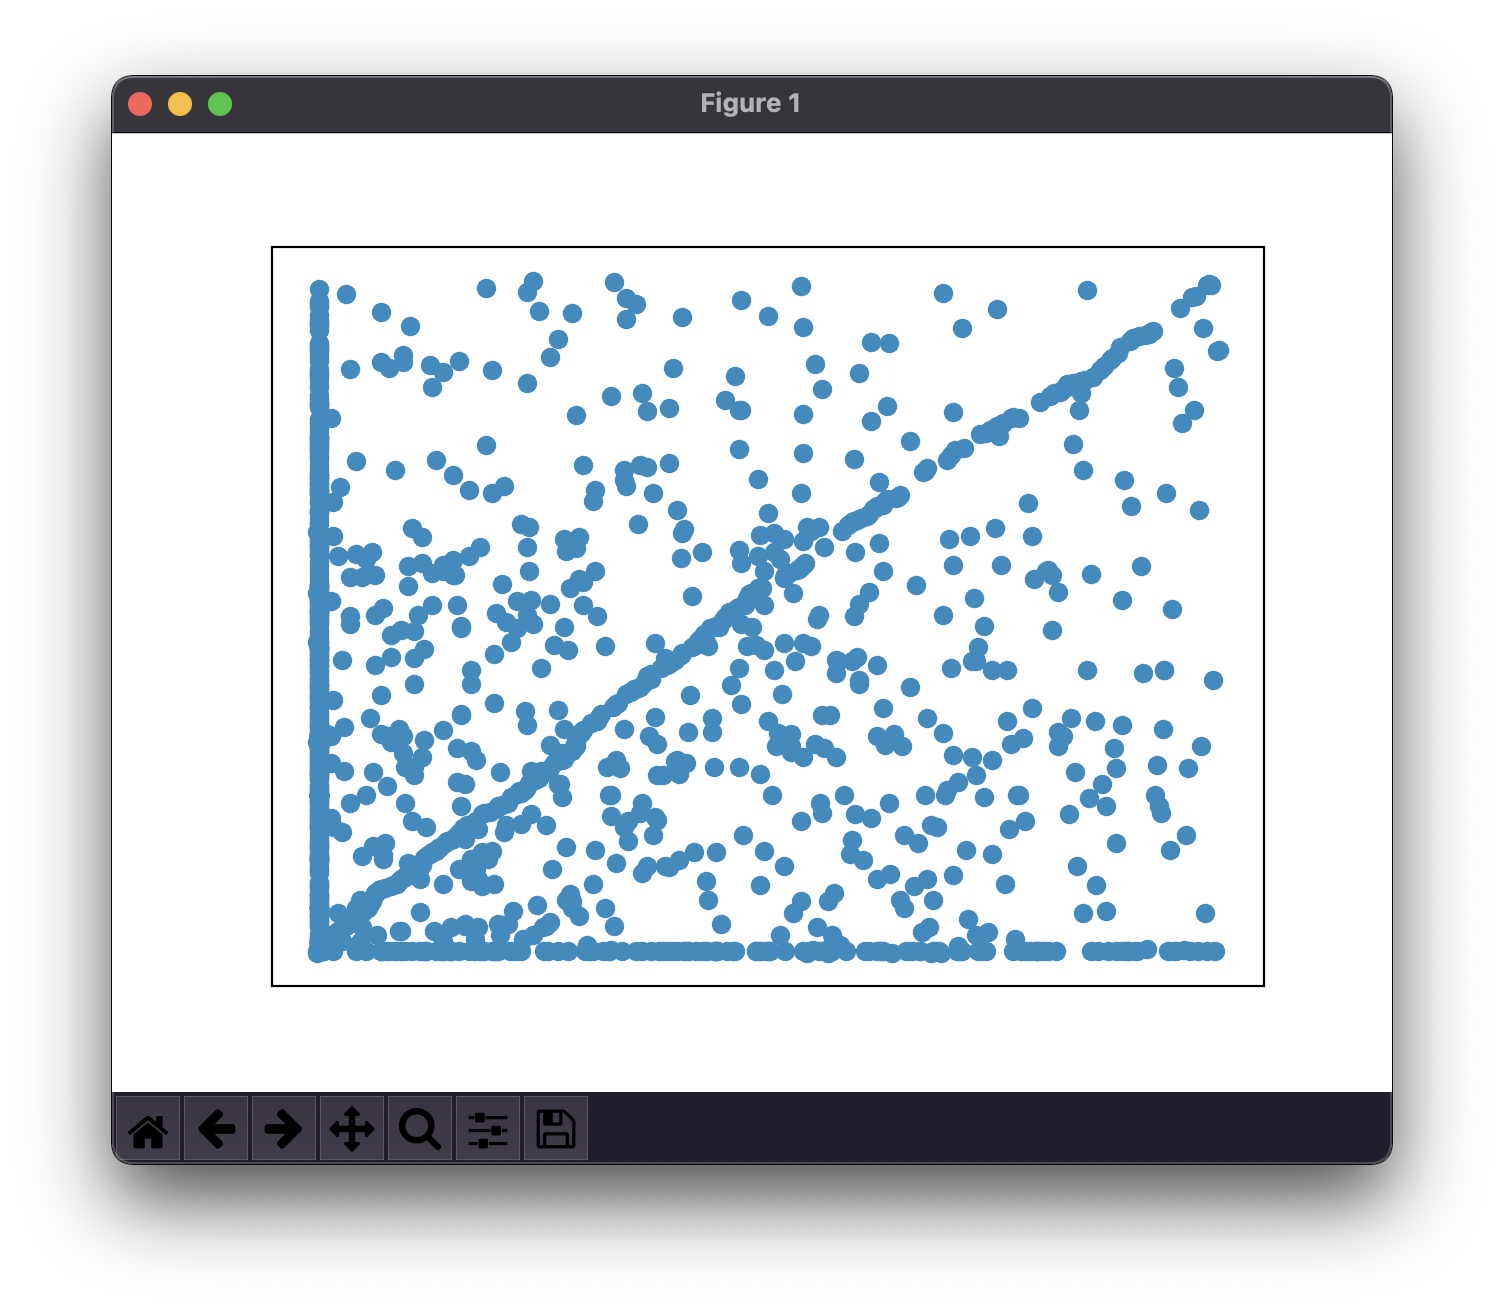
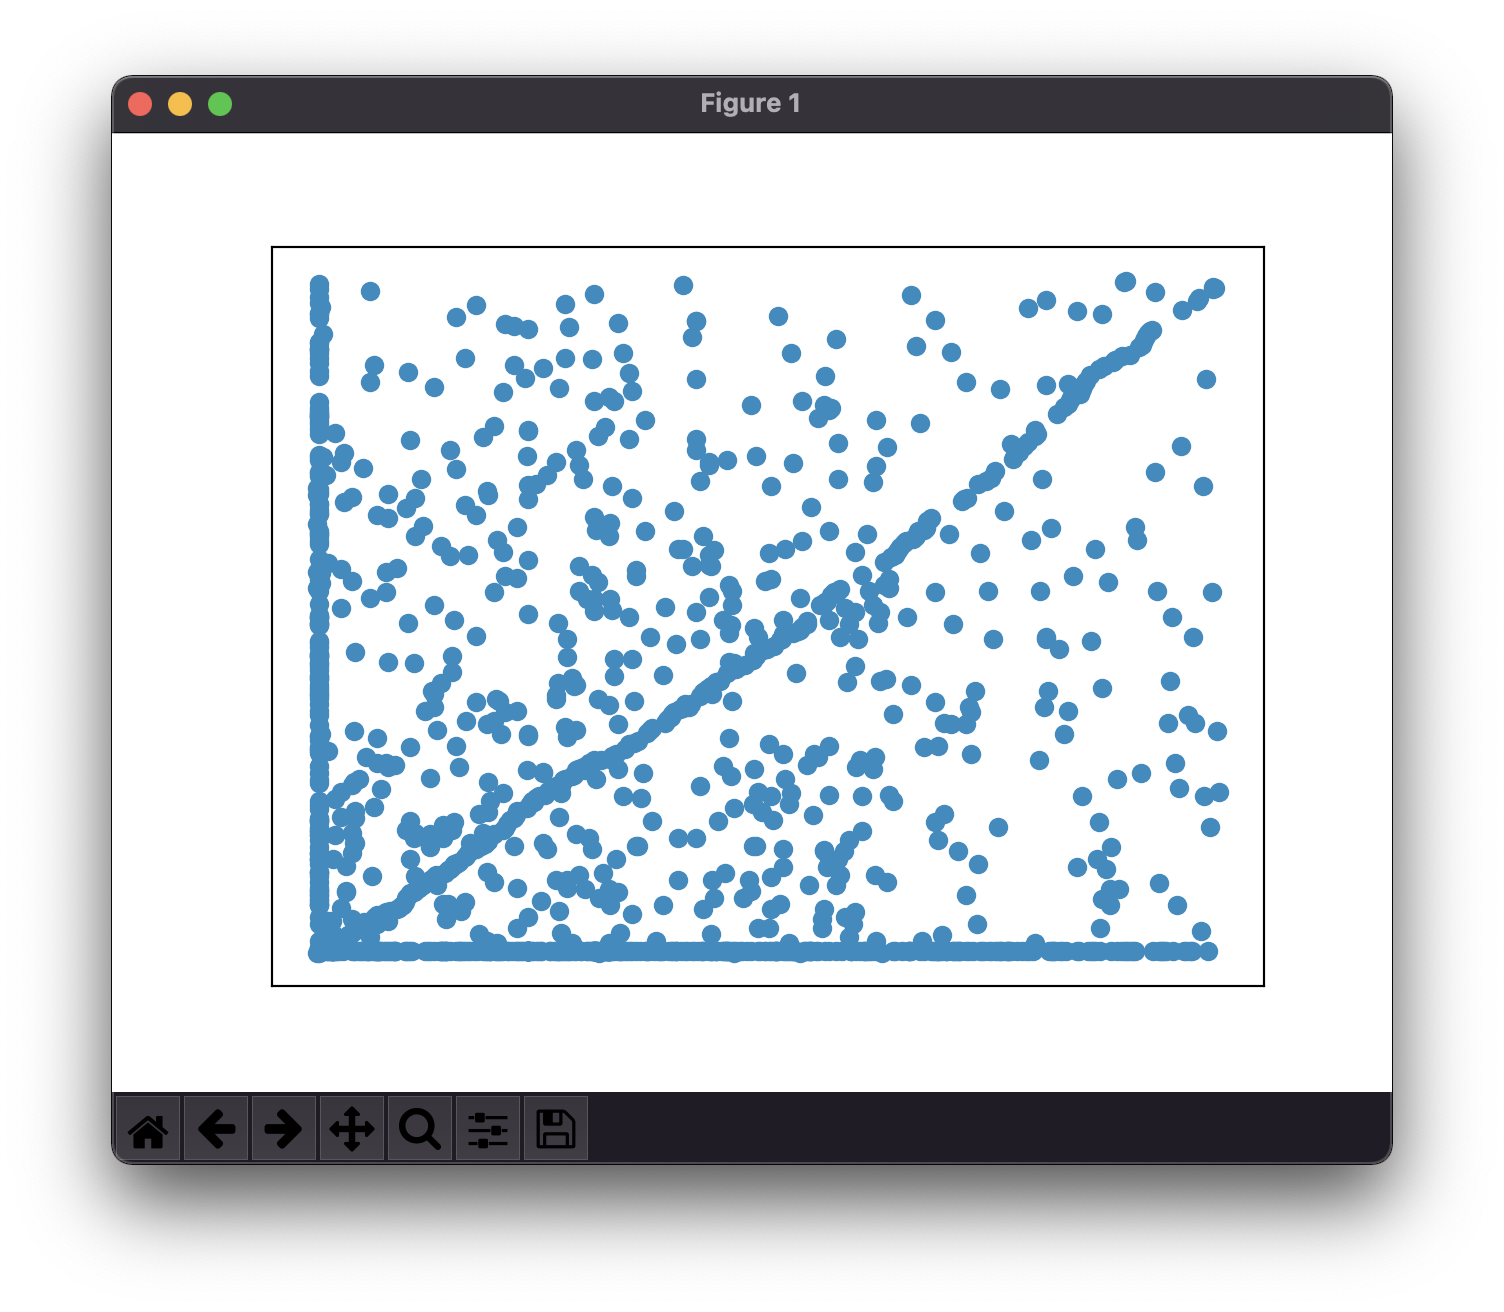
Updata output

Changed region(s): [[0.1875, 0.1875, 0.8125, 0.75], [0.7812, 0.6875, 0.8125, 0.7188]]

diff --git a/python/neural_network.py b/python/neural_network.py
@@ -122,7 +122,7 @@ def plot():
     print(estimated_fitness[:,0])
 
     # NOTE: reader does not utilise delimiter - TODO
-    plt.scatter(actual_fitness[:,0],estimated_fitness[:,0])
+    plt.scatter(estimated_fitness[:,0],actual_fitness[:,0])
     plt.xticks([])
     plt.yticks([])
     plt.show()
